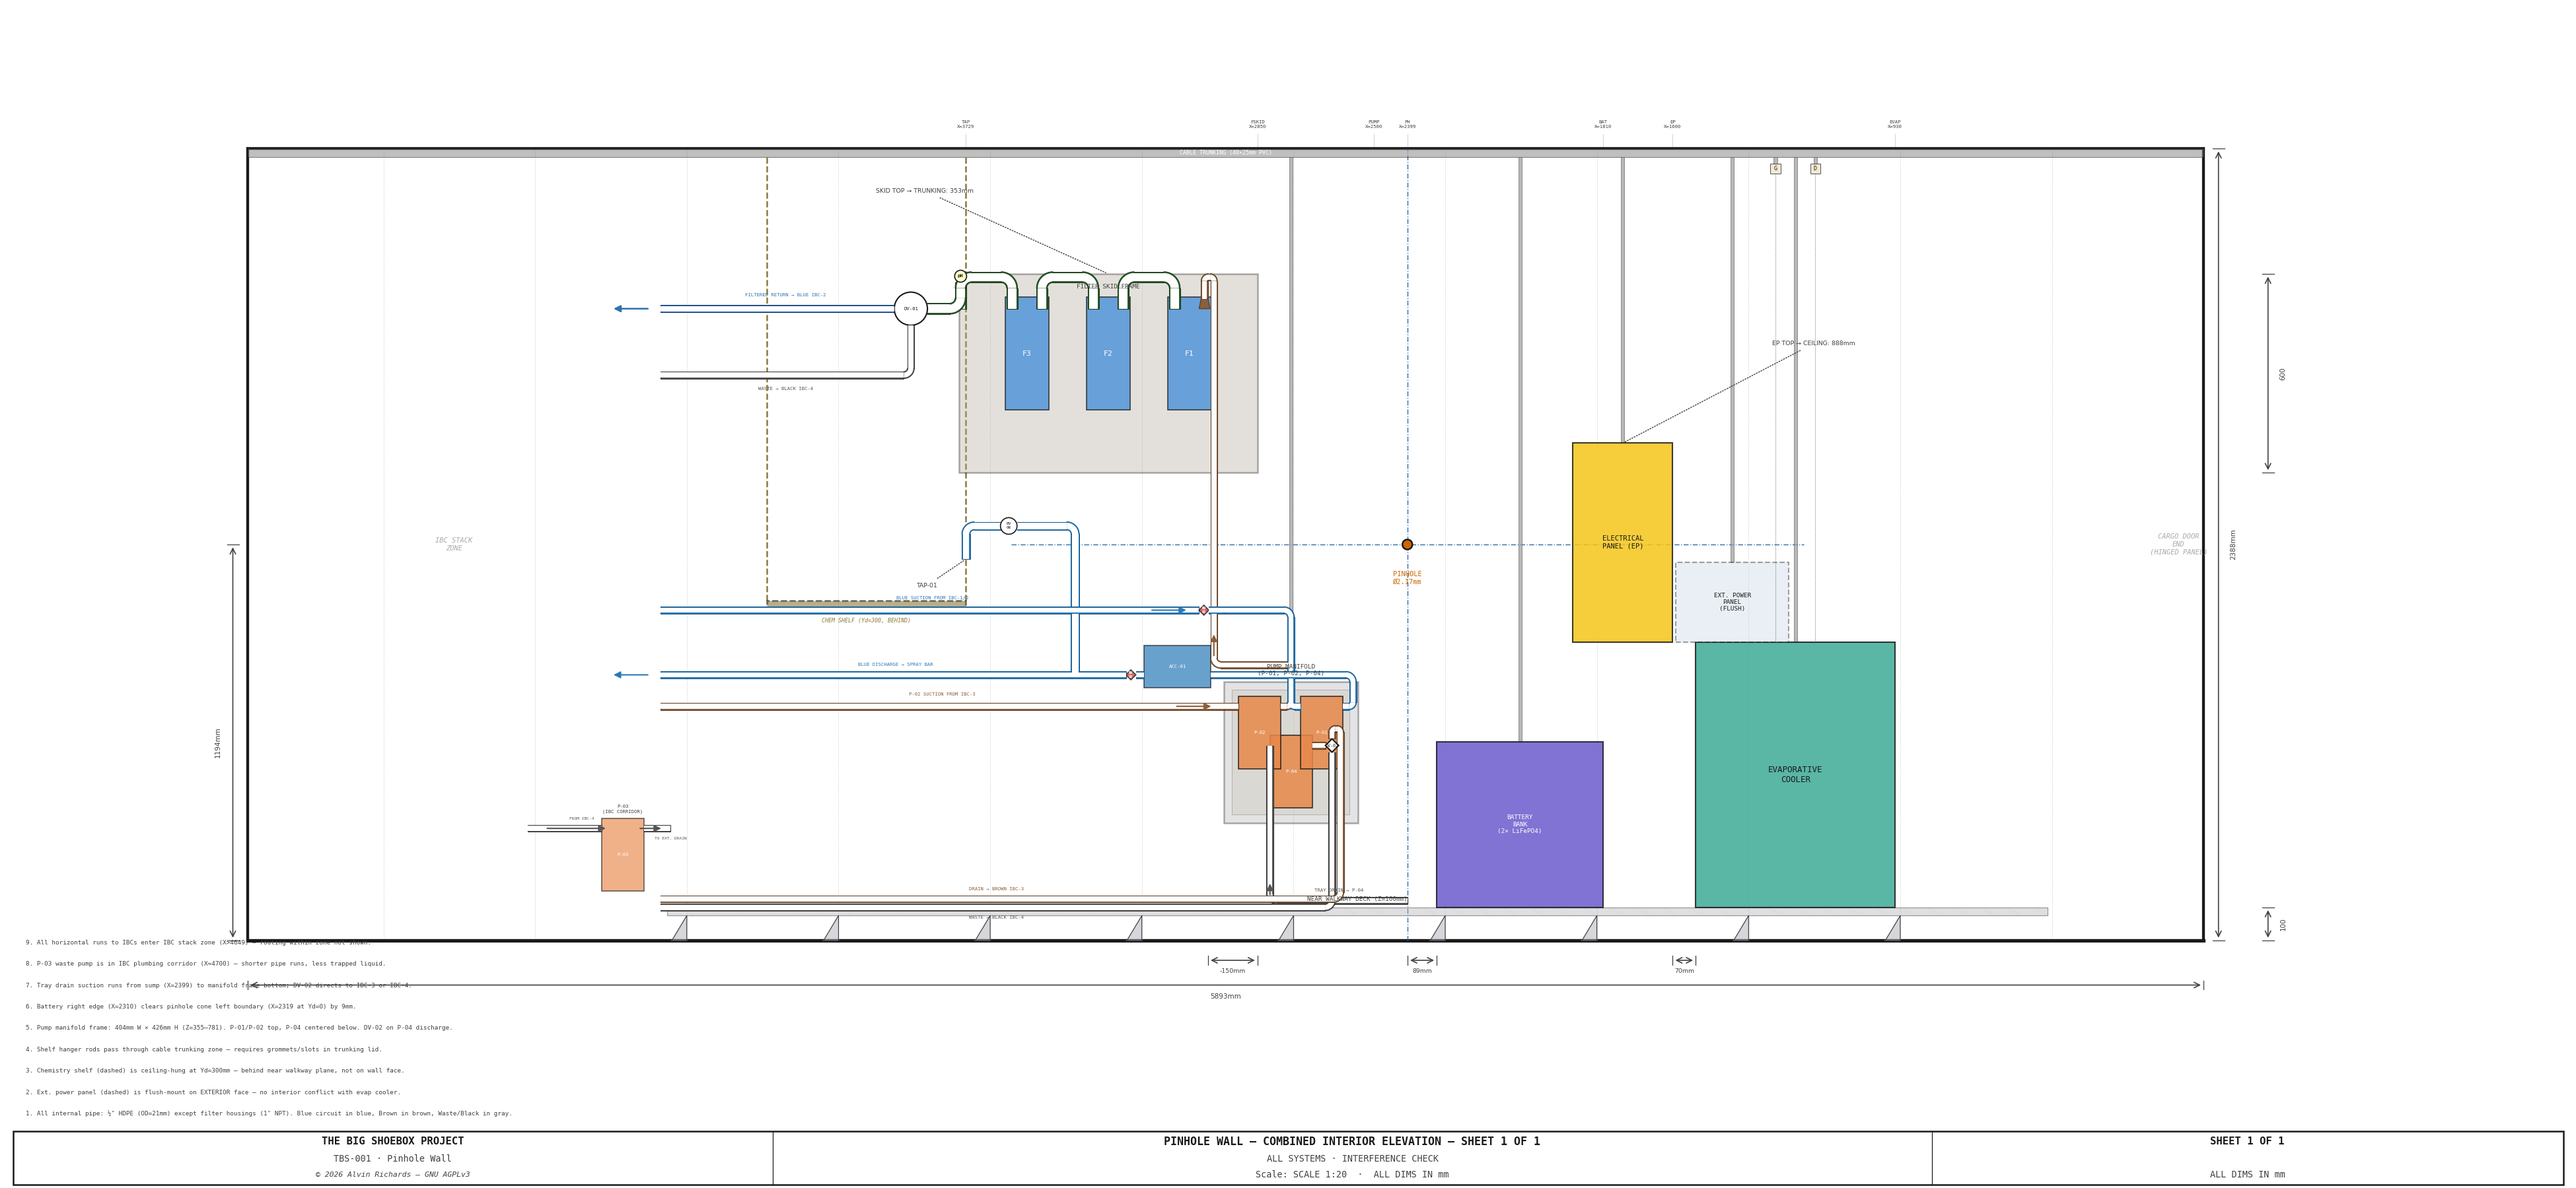
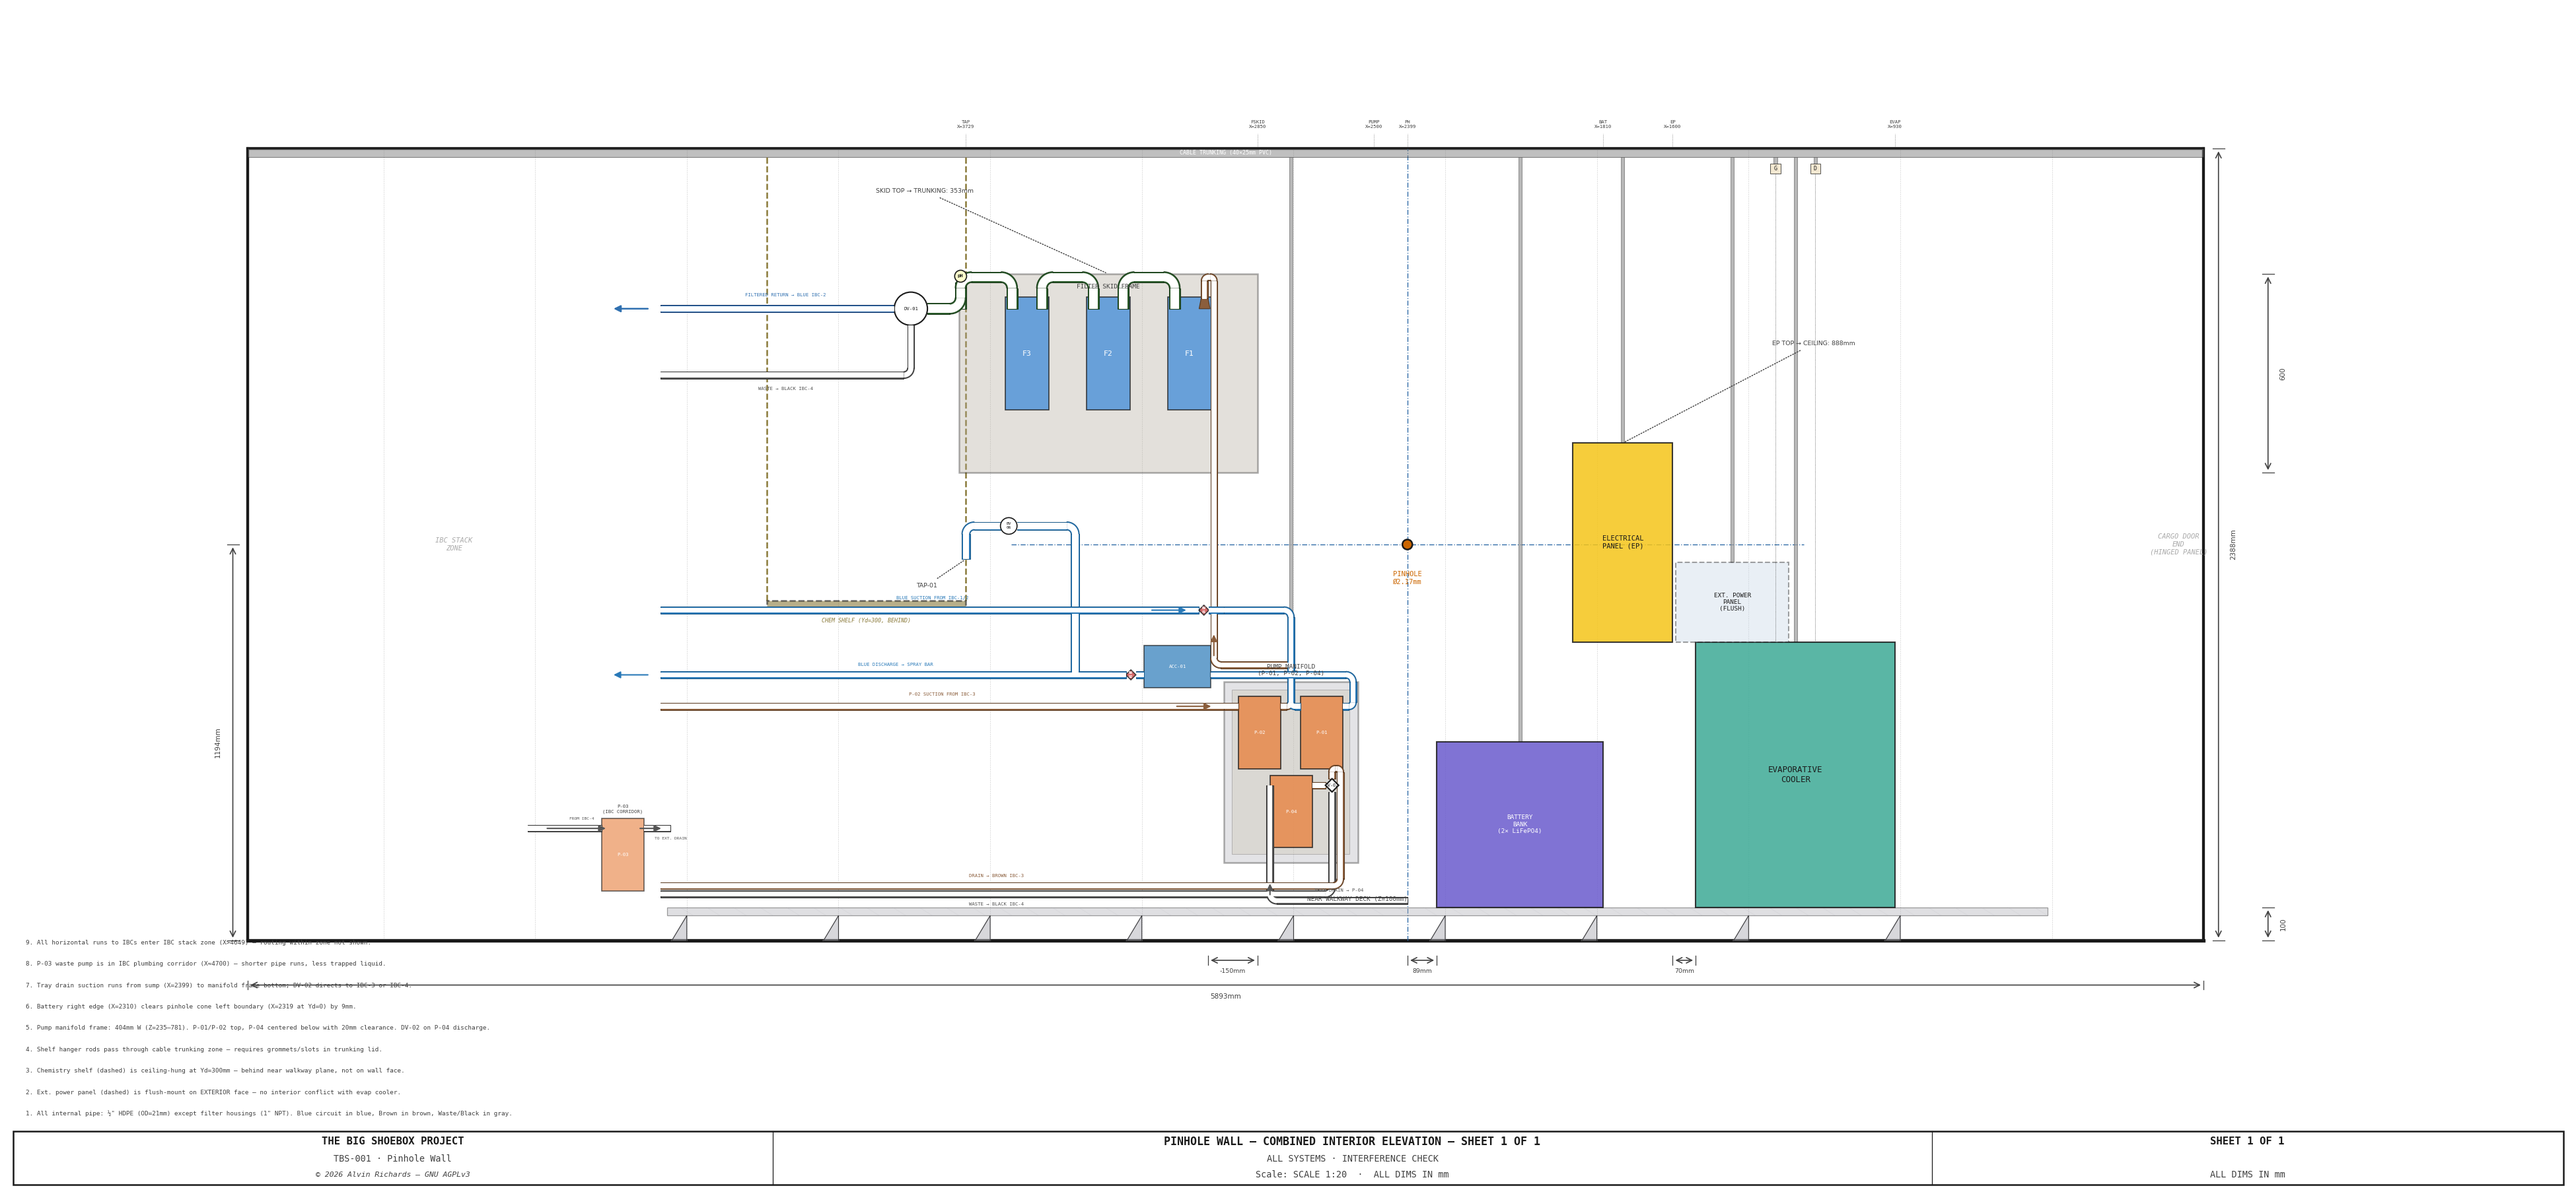
Drop P-04 to clear top row, route DV-02 outputs above walkway
P-04 lowered to Z=280 (20mm clearance below P-01/P-02 at Z=518).
DV-02 output horizontal runs moved above walkway deck: Black at
Z=140, Brown at Z=165 (was Z=100/125 which sat on the walkway).

Changed region(s): [[0.2482, 0.5911, 0.5274, 0.7778]]

diff --git a/generate_pinhole_wall_elevation.py b/generate_pinhole_wall_elevation.py
@@ -69,11 +69,11 @@ PM_MARGIN_Z = 20         # vertical margin inside frame
 PM_FRAME_W = (2 * PM_ANGLE + 2 * PM_MARGIN_X
               + 2 * PM_PUMP_W + 1 * PM_GAP_X)             # 404mm
 PM_FRAME_X = PUMP_X + (PUMP_W - PM_FRAME_W) // 2          # centered (may extend past zone)
-# P-04 raised 250mm from original Z=150, centered horizontally
-PM_P04_Z = 400           # P-04 bottom Z
-PM_P04_X = PM_FRAME_X + (PM_FRAME_W - PM_PUMP_W) // 2     # centered in frame
 # Top row (P-01, P-02) — kept at original Z position
 PM_PUMP_Z_TOP = 518
+# P-04 centered horizontally, 20mm below top row for clearance
+PM_P04_Z = PM_PUMP_Z_TOP - PM_PUMP_H - 20   # 280mm — clears P-01/P-02 by 20mm
+PM_P04_X = PM_FRAME_X + (PM_FRAME_W - PM_PUMP_W) // 2     # centered in frame
 # Frame wraps all pumps tightly
 PM_FRAME_Z_LO = PM_P04_Z - PM_MARGIN_Z - PM_ANGLE         # 355mm
 PM_FRAME_Z_HI = (PM_PUMP_Z_TOP + PM_PUMP_H
@@ -737,8 +737,9 @@ TRAY_DRAIN_Z = WALKWAY_H + 20   # 120mm — just above walkway deck
 TRAY_SUMP_X = PROC_TRAY_DRAIN_X  # 2399mm
 
 # DV-02 output routing: both Black and Brown run south then left to IBCs
-DV02_BLACK_Z = 100               # Black horizontal run ~100mm from floor
-DV02_BROWN_Z = DV02_BLACK_Z + 25 # Brown parallel, 25mm above Black
+# Both horizontal runs above the walkway deck (Z=100)
+DV02_BLACK_Z = WALKWAY_H + 40    # 140mm — Black horizontal run above walkway
+DV02_BROWN_Z = DV02_BLACK_Z + 25 # 165mm — Brown parallel, 25mm above Black
 # Vertical risers: Black drops at DV-02 X, Brown offset 25mm to the right (lower X)
 DV02_BLACK_RISER_X = PM_DV02_X
 DV02_BROWN_RISER_X = PM_DV02_X - 25  # 25mm right in drawing (lower X)
@@ -976,7 +977,7 @@ notes = [
     "2. Ext. power panel (dashed) is flush-mount on EXTERIOR face — no interior conflict with evap cooler.",
     "3. Chemistry shelf (dashed) is ceiling-hung at Yd=300mm — behind near walkway plane, not on wall face.",
     "4. Shelf hanger rods pass through cable trunking zone — requires grommets/slots in trunking lid.",
-    "5. Pump manifold frame: 404mm W × 426mm H (Z=355–781). P-01/P-02 top, P-04 centered below. DV-02 on P-04 discharge.",
+    "5. Pump manifold frame: 404mm W (Z=235–781). P-01/P-02 top, P-04 centered below with 20mm clearance. DV-02 on P-04 discharge.",
     "6. Battery right edge (X=2310) clears pinhole cone left boundary (X=2319 at Yd=0) by 9mm.",
     "7. Tray drain suction runs from sump (X=2399) to manifold frame bottom; DV-02 directs to IBC-3 or IBC-4.",
     "8. P-03 waste pump is in IBC plumbing corridor (X≈4700) — shorter pipe runs, less trapped liquid.",
